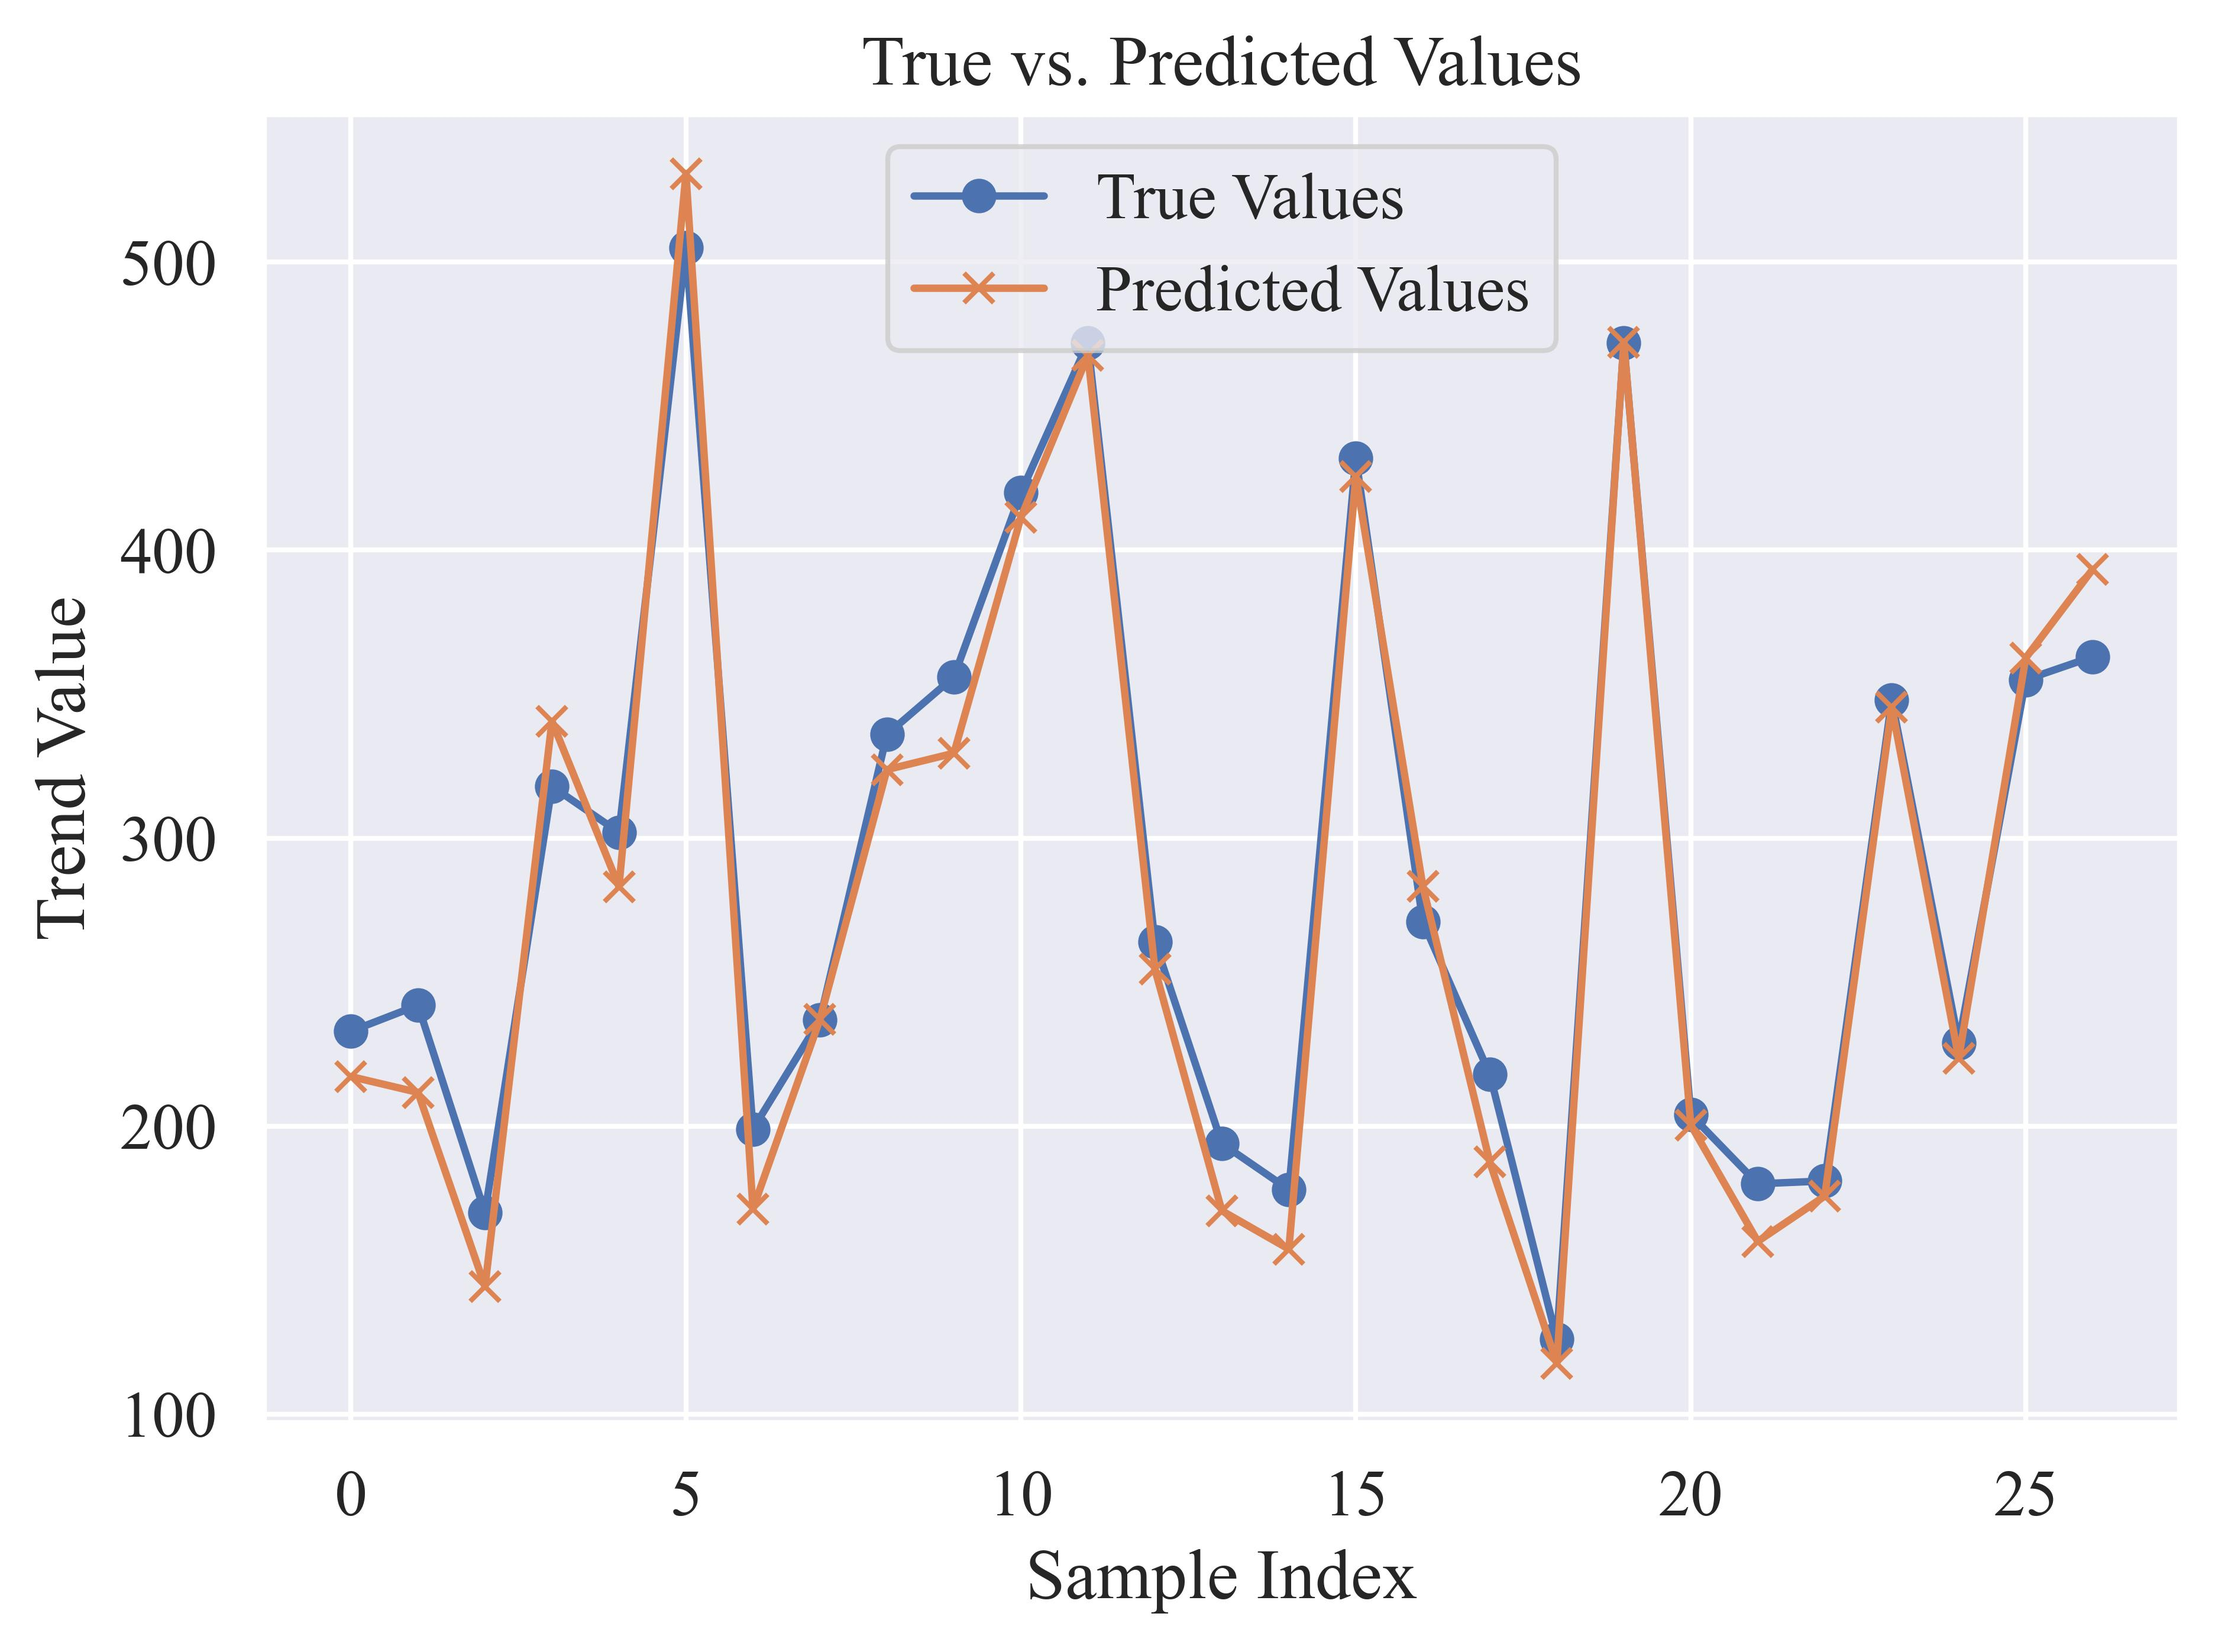
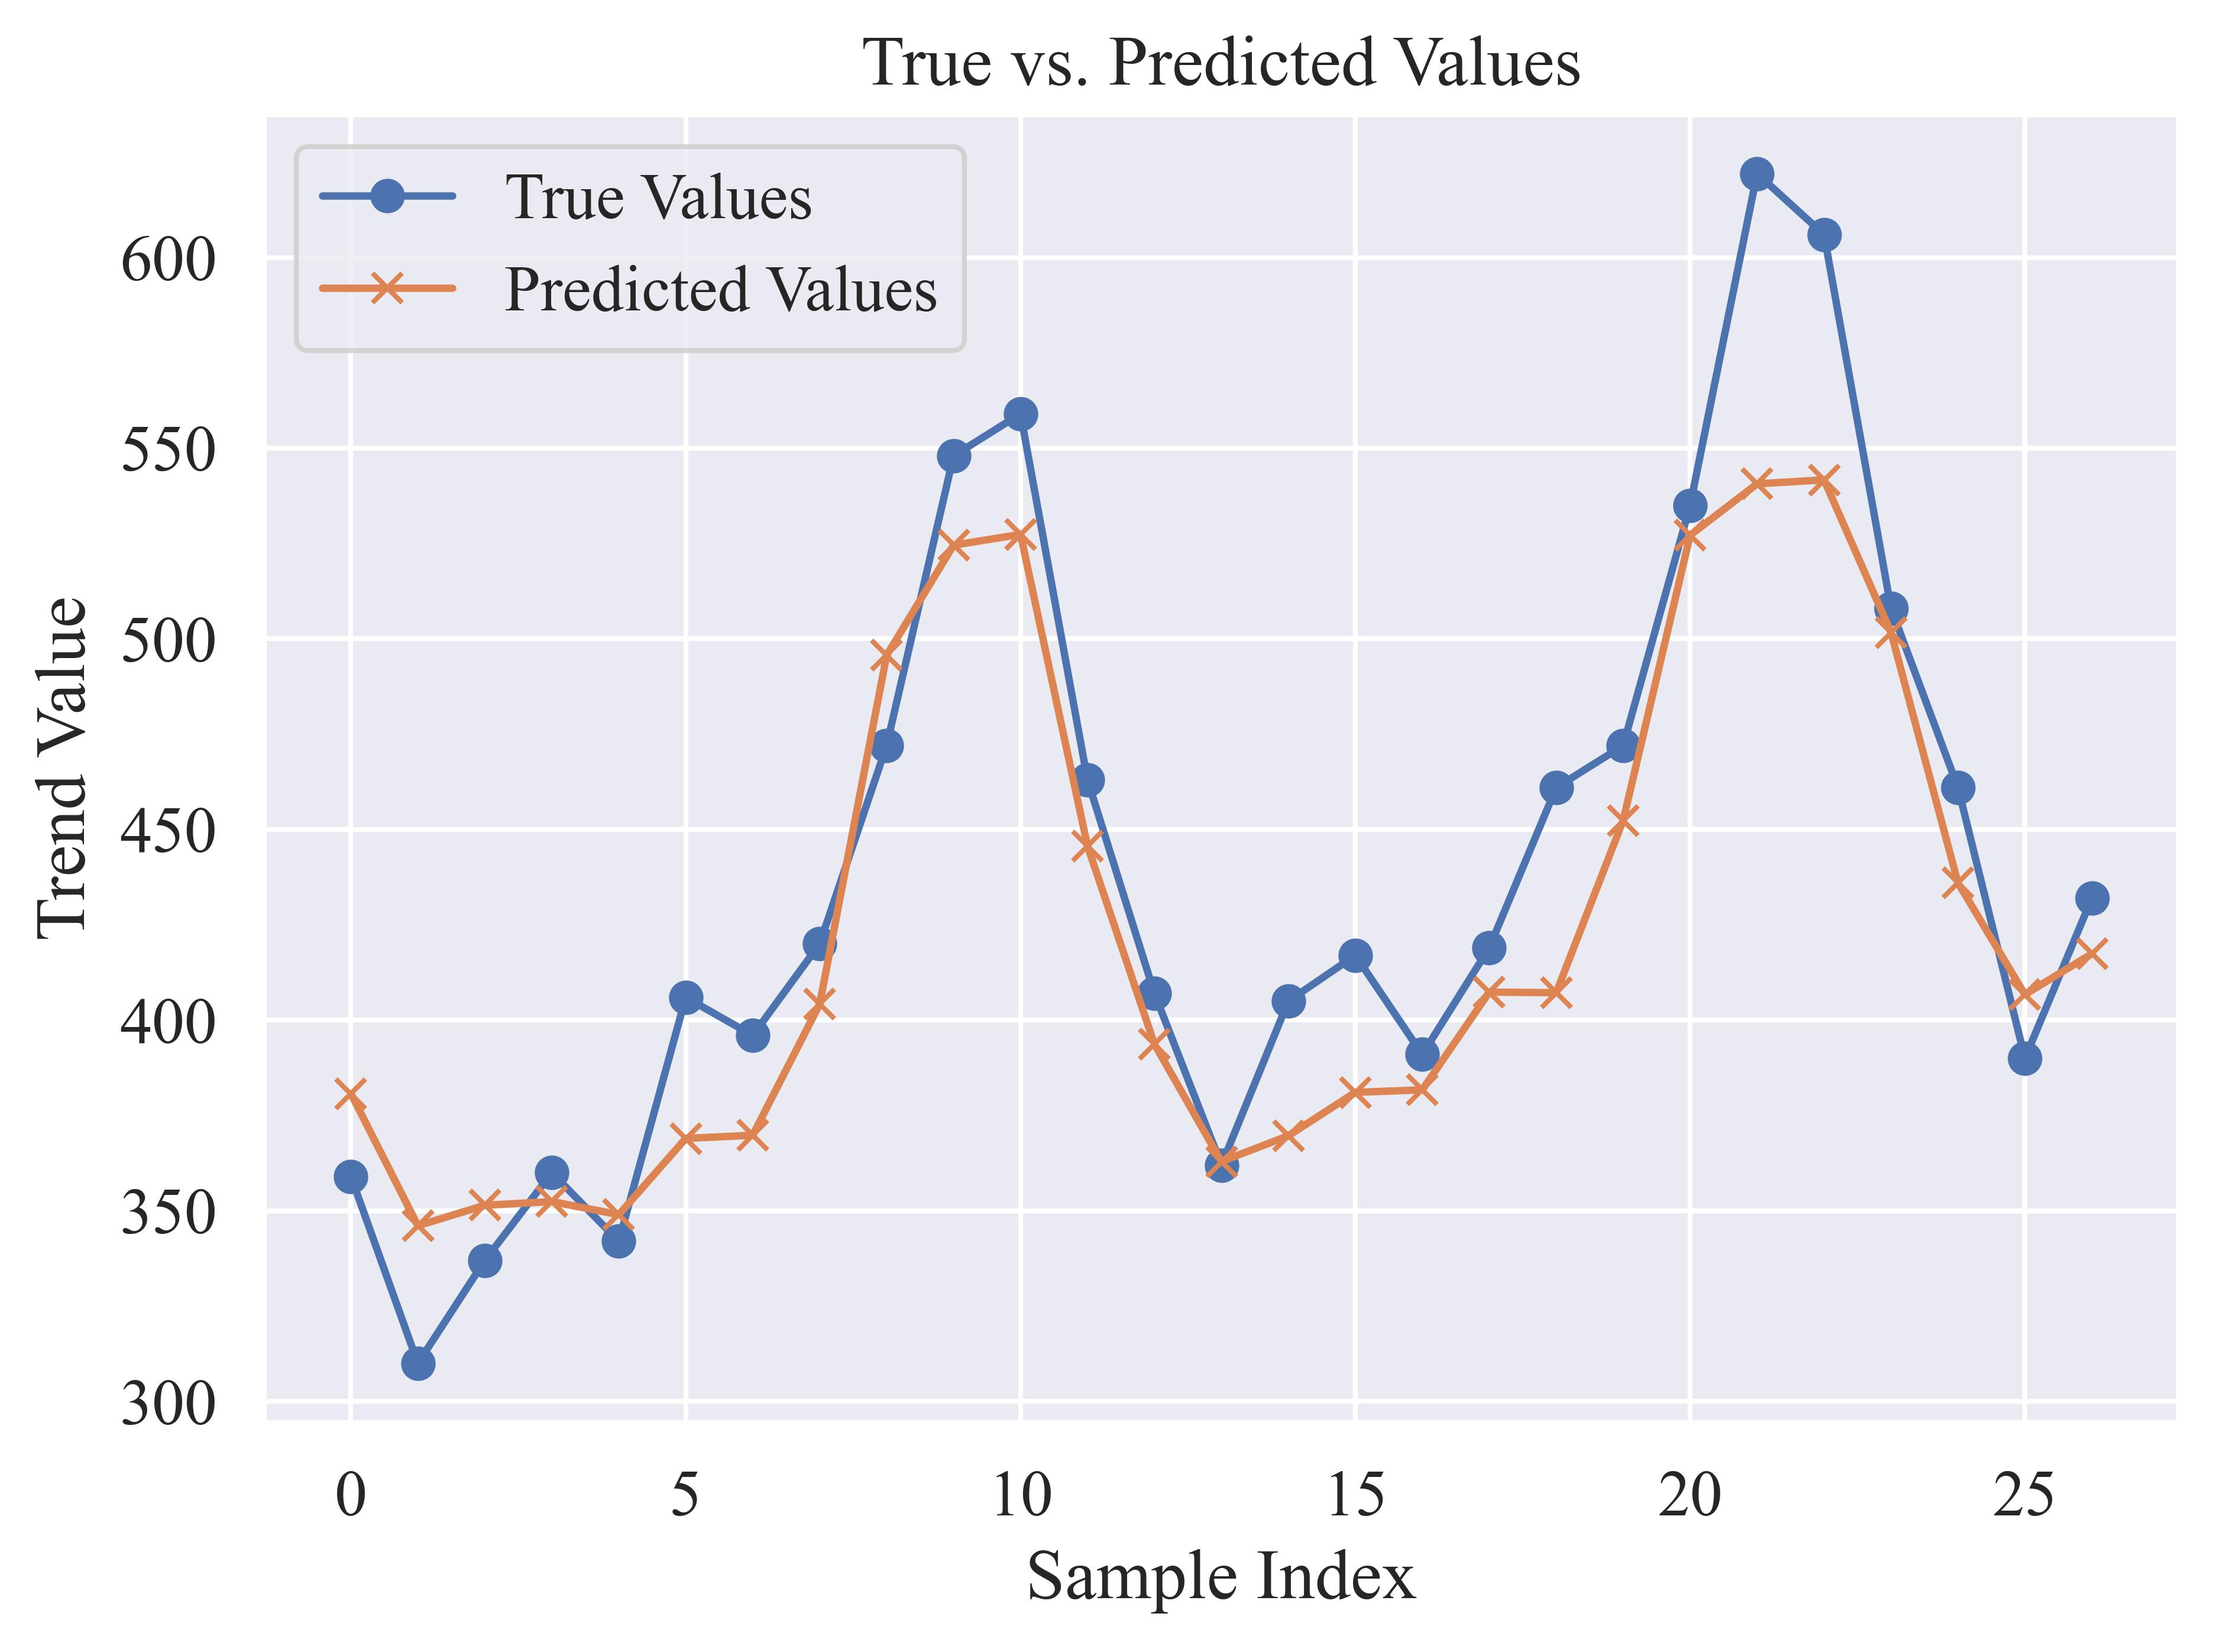
feat():update code

diff --git a/src/多变量时序预测系列-股票预测/多输入+单输出+单步/CNN-Transformer.py b/src/多变量时序预测系列-股票预测/多输入+单输出+单步/CNN-Transformer.py
@@ -1,6 +1,6 @@
 import math
 import random
-import os
+
 import matplotlib.pyplot as plt
 import numpy as np
 import pandas as pd
@@ -14,7 +14,7 @@ from torch.utils.data import Dataset, DataLoader
 
 # 1. 构造时间序列数据集
 class VirtualTimeSeriesDataset(Dataset):
-    def __init__(self, seq_len=12, num_samples=132):
+    def __init__(self, seq_len=30, num_samples=5173):
         super(VirtualTimeSeriesDataset, self).__init__()
         self.seq_len = seq_len
         self.num_samples = num_samples
@@ -27,20 +27,18 @@ class VirtualTimeSeriesDataset(Dataset):
         data = []
         targets = []
         # 读取数据集
-        df = pd.read_excel('_data.xlsx')
-        # 将日期列转换为日期时间类型
-        df['Month'] = pd.to_datetime(df['Month'])
-        # 将日期列设置为索引
-        df.set_index('Month', inplace=True)
-        # 归一化
-        df = scaler.fit_transform(df.values.reshape(-1, 1))
+        df = pd.read_csv('data.csv', parse_dates=["Date"], index_col=[0])
+        fea_num = len(df.columns)
+
+        scaler = MinMaxScaler()
+        df = scaler.fit_transform(df.values.reshape(-1, fea_num))
 
         for i in range(len(df) - window_size):
             data.append(df[i:i + window_size, 0:df.shape[1]])
             targets.append(df[i + window_size, 0])
 
 
-        data = np.array(data, dtype=np.float32)  # shape: (num_samples, seq_len, 1)
+        data = np.array(data, dtype=np.float32)  # shape: (num_samples, seq_len, fea_num)
         targets = np.array(targets, dtype=np.float32).reshape(-1, 1)
         print(data.shape, targets.shape)
 
@@ -75,7 +73,7 @@ class PositionalEncoding(nn.Module):
 
 # 3. 融合 Transformer 与 CNN 的模型定义
 class FusedCNNTransformer(nn.Module):
-    def __init__(self, input_dim=1, embed_dim=64, cnn_channels=64, kernel_size=3,
+    def __init__(self, input_dim=5, embed_dim=64, cnn_channels=64, kernel_size=3,
                  num_transformer_layers=2, nhead=4, dropout=0.1, fc_dim=32):
         super(FusedCNNTransformer, self).__init__()
         self.embed_dim = embed_dim
@@ -182,19 +180,10 @@ def evaluate_model(model, dataloader, device='cpu'):
             trues.append(batch_targets.cpu().numpy())
             cnn_features.append(cnn_f.cpu().numpy())
             trans_features.append(trans_f.cpu().numpy())
-
-
-    preds_reshaped = np.array(preds).reshape(-1, 1)
-    trues_reshaped = np.array(trues).reshape(-1, 1)
-    preds_original = scaler.inverse_transform(preds_reshaped)
-    trues_original = scaler.inverse_transform(trues_reshaped)
-
-    preds = np.concatenate(preds_original, axis=0).squeeze()
-    trues = np.concatenate(trues_original, axis=0).squeeze()
+    preds = np.concatenate(preds, axis=0).squeeze()
+    trues = np.concatenate(trues, axis=0).squeeze()
     cnn_features = np.concatenate(cnn_features, axis=0)
     trans_features = np.concatenate(trans_features, axis=0)
-    df = pd.DataFrame({"preds":preds, "trues":trues})
-    print(df)
     return preds, trues, cnn_features, trans_features
 
 
@@ -205,51 +194,45 @@ def visualize_results(loss_history, preds, trues, cnn_features, trans_features):
 
     # 图 1：训练损失曲线
     # 模型在训练过程中损失的下降情况，说明模型不断优化拟合数据。
-    plt.plot(loss_history, marker='o', linestyle='-', linewidth=2)
+    plt.plot(loss_history, marker='o', color='dodgerblue', linestyle='-', linewidth=2)
     plt.title("Training Loss Curve")
     plt.xlabel("Epoch")
     plt.ylabel("MSE Loss")
     plt.tight_layout()
-    plt.savefig(os.path.join(base_dir, 'figure1.jpg'), bbox_inches='tight', dpi=600)
     plt.show()
 
     # 图 2：真实值与预测值对比曲线
     # 对比曲线直观展示模型预测趋势与真实数据的匹配情况，越接近表示模型效果越好。
-    plt.plot(trues, label="True Values",  marker='o')
-    plt.plot(preds, label="Predicted Values", marker='x')
+    plt.plot(trues, label="True Values", color='limegreen', marker='o')
+    plt.plot(preds, label="Predicted Values", color='crimson', marker='x')
     plt.title("True vs. Predicted Values")
     plt.xlabel("Sample Index")
     plt.ylabel("Trend Value")
     plt.legend()
     plt.tight_layout()
-    plt.savefig(os.path.join(base_dir, 'figure2.jpg'), bbox_inches='tight', dpi=600)
     plt.show()
 
     # 图 3：CNN 提取的局部特征展示（选取第一个样本的特征向量）
     # 展示 CNN 分支提取到的局部特征，反映了数据中局部模式信息的提取情况。
-    plt.bar(np.arange(cnn_features.shape[1]), cnn_features[0])
+    plt.bar(np.arange(cnn_features.shape[1]), cnn_features[0], color='orchid')
     plt.title("CNN Local Features (Sample 1)")
     plt.xlabel("Feature Dimension")
     plt.ylabel("Feature Value")
     plt.tight_layout()
-    plt.savefig(os.path.join(base_dir, 'figure3.jpg'), bbox_inches='tight', dpi=600)
     plt.show()
 
     # 图 4：Transformer 提取的全局特征展示（选取第一个样本的特征向量）
     # 展示 Transformer 分支提取到的全局特征，体现了长距离依赖关系的建模效果。
-    plt.plot(trans_features[0], marker='s', linestyle='-')
+    plt.plot(trans_features[0], marker='s', linestyle='-', color='goldenrod')
     plt.title("Transformer Global Features (Sample 1)")
     plt.xlabel("Feature Dimension")
     plt.ylabel("Feature Value")
     plt.tight_layout()
-    plt.savefig(os.path.join(base_dir, 'figure4.jpg'), bbox_inches='tight', dpi=600)
     plt.show()
 
 
 # 5. 主函数：数据加载、模型训练、评估与可视化
 if __name__ == '__main__':
-
-    base_dir = './'
     # 设置随机种子，保证结果可重复
     torch.manual_seed(42)
     np.random.seed(42)
@@ -262,25 +245,18 @@ if __name__ == '__main__':
     num_epochs = 50
     learning_rate = 1e-3
 
-    scaler = MinMaxScaler()
-
     # 构造数据集
-    dataset = VirtualTimeSeriesDataset(seq_len=12, num_samples=132)
-    # # 随机划分训练集与测试集（80%/20%）
-    # train_size = int(0.8 * len(dataset))
-    # test_size = len(dataset) - train_size
-    # train_dataset, test_dataset = torch.utils.data.random_split(dataset, [train_size, test_size])
-
-    # 直接通过索引切片（非随机划分）创建新数据集（80%/20%）
+    dataset = VirtualTimeSeriesDataset(seq_len=12, num_samples=5173)
+    # 划分训练集与测试集（80%/20%）
     train_size = int(0.8 * len(dataset))
-    train_dataset = torch.utils.data.Subset(dataset, range(0, train_size))
-    test_dataset = torch.utils.data.Subset(dataset, range(train_size, len(dataset)))
+    test_size = len(dataset) - train_size
+    train_dataset, test_dataset = torch.utils.data.random_split(dataset, [train_size, test_size])
 
     train_loader = DataLoader(train_dataset, batch_size=batch_size, shuffle=True)
     test_loader = DataLoader(test_dataset, batch_size=batch_size, shuffle=False)
 
     # 模型实例化
-    model = FusedCNNTransformer(input_dim=1, embed_dim=64, cnn_channels=64, kernel_size=3,
+    model = FusedCNNTransformer(input_dim=5, embed_dim=64, cnn_channels=64, kernel_size=3,
                                 num_transformer_layers=2, nhead=4, dropout=0.1, fc_dim=32)
     model.to(device)
 

diff --git a/src/单变量时序预测系列-航空乘客预测/CNN-Transformer.py b/src/单变量时序预测系列-航空乘客预测/CNN-Transformer.py
@@ -251,10 +251,16 @@ if __name__ == '__main__':
 
     # 构造数据集
     dataset = VirtualTimeSeriesDataset()
-    # 划分训练集与测试集（80%/20%）
+
+    # 随机划分训练集与测试集（80%/20%）
     train_size = int(0.8 * len(dataset))
     test_size = len(dataset) - train_size
     train_dataset, test_dataset = torch.utils.data.random_split(dataset, [train_size, test_size])
+
+    # # 直接通过索引切片（非随机划分）创建新数据集（80%/20%）
+    # train_size = int(0.8 * len(dataset))
+    # train_dataset = torch.utils.data.Subset(dataset, range(0, train_size))
+    # test_dataset = torch.utils.data.Subset(dataset, range(train_size, len(dataset)))
 
     train_loader = DataLoader(train_dataset, batch_size=batch_size, shuffle=True)
     test_loader = DataLoader(test_dataset, batch_size=batch_size, shuffle=False)
